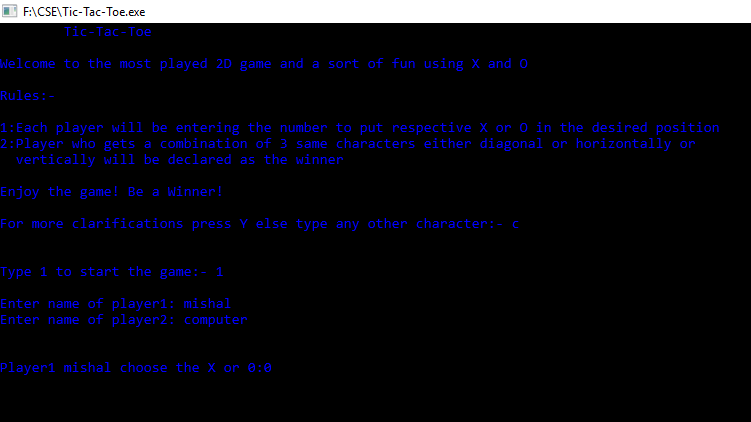
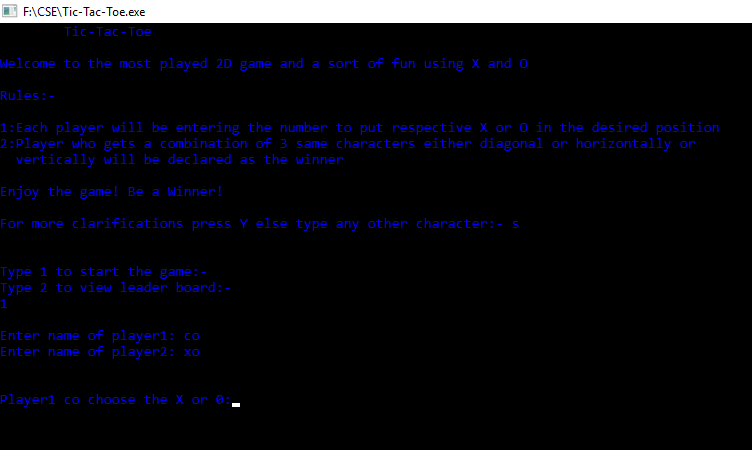
added new feature of computer vs human  (#12)
[feat]: computer vs human mode based on randomness

Contributed by @user23052036

diff --git a/Code.c b/Code.c
@@ -3,6 +3,8 @@ This code has been compiled in Code::Blocks 16.01 IDE on Windows 10
 Author:- Mishal Shah
 */
 #include<stdio.h>
+#include<time.h>
+#include<unistd.h>
 #include<string.h>
 #include <stdlib.h>
 #include <stdbool.h>
@@ -18,6 +20,8 @@ void board(char x, char o, unsigned char *u1, unsigned char *u2, char *a); // 2D
 void rules(); // Prints rule page on CLI
 int checkforwin(char *a); // Checks wether a player won
 bool decision(char *x, char *o, unsigned char *u1); // points player to mark X or mark 0
+int rand_generator(int*,int);
+bool if_unique(int*,int,int);
 int main()
 {
     FILE *p;
@@ -34,26 +38,38 @@ int main()
     if (OS=="nt")
         system("color 09");
     rules();
-    printf("\n\nType 1 to start the game:-\nType 2 to view leader board:-\n");
+    printf("\n\nType 1 to start the game against human:-");
+    printf("\nType 2 to start the game against computer:-\n");
+    printf("\nType 3 to view leader board:-\n\n\n");
+
+    printf("Enter your choice:---> ");
     scanf("%d",&s);
-    switch(s) {
+    switch(s) 
+    {
         case 1:
-            do {
+        {
+            do 
+            {
                 p=fopen("score.txt", "a+");
                 printf("\nEnter name of player1: ");
                 scanf("%s",u1);
+
                 fprintf(p,"\n%s",u1);
                 printf("Enter name of player2: ");
                 scanf("%s",u2);
+                getchar();
+                
                 fprintf(p,"\t%s",u2);
                 fclose(p);
                 !strcmp(u1,u2) ? printf("Enter names of different players!\n\n") : FALSE;
             } while(!strcmp(u1,u2));
+
             decision(&x, &o, u1);
             if (OS=="nt")
                 system("color fc");
             board(x,o, u1, u2, a);
-            do {
+            do 
+            {
                 player=((player%2)?1:2);
                 if(player==1)
                     printf("%s Type any digit from 1-9 to fill your response:- ",u1);
@@ -79,33 +95,147 @@ int main()
                     a[7]=symbol;
                 else if(choice==9 && a[8]=='9')
                     a[8]=symbol;
-                else {
-                        printf("Wrong Selection\n");
-                        player--;
+                else 
+                {
+                    printf("Wrong Selection\n");
+                    player--;
                 }
                 score=checkforwin(a);
                 player++;
                 board(x, o, u1, u2, a);
             } while(score == -1);
+
             p=fopen("score.txt","a+");
-            if(score==1) {
-                if(player==2){
+            if(score==1) 
+            {
+                if(player==2)
+                {
                     printf("\n\nPlayer1 %s Wins!\n\n",u1);
                     fprintf(p,"\t%s",u1);
                     getchar();
                 }
-                else {
+                else 
+                {
                     printf("\n\nPlayer2 %s Wins!\n\n",u2);fprintf(p,"\t%s",u2);
                     getchar();
                 }
                 fclose(p);
             }
-            else {
+            else 
+            {
                 printf("\n\nGame Draws!\n\n");fprintf(p,"\t%s","DRAW");
                 getchar();
             }
             break;
+        }
+
         case 2:
+        {
+            int length=5,index=0;
+            int *arr = (int*)malloc(length*sizeof(int));
+            do 
+            {
+                p=fopen("score.txt", "a+");
+                printf("\nEnter name of player1: ");
+                scanf("%s",u1);
+                getchar();
+
+                fprintf(p,"\n%s",u1);
+                printf("My name is (AI-BOT) lets play o_O");
+                strcpy(u2,"AI-BOT");
+
+                fprintf(p,"\t%s",u2);
+                fclose(p);
+                !strcmp(u1,u2) ? printf("Enter names of different players!\n\n") : FALSE;
+            } while(!strcmp(u1,u2));
+
+            decision(&x, &o, u1);
+            if (OS=="nt")
+                system("color fc");
+            board(x,o, u1, u2, a);
+            do 
+            {
+                player=((player%2)?1:2);
+                if(player==1)
+                {
+                    printf("%s Type any digit from 1-9 to fill your response:- ",u1);
+                    scanf("%d",&choice);
+
+                    if(index>=5)
+                    {
+                        length++;
+                        arr = realloc(arr,length);
+                        arr[index]=choice;
+                        index++;
+                    }
+                    else
+                    {
+                        arr[index]=choice;
+                        index++;
+                    }
+                }
+                else
+                {
+                    printf("%s Type any digit from 1-9 to fill your response:- ",u2);
+                    choice = rand_generator(arr,index);
+                }
+
+                symbol=((player==1)?x:o);
+                if(choice==1 && a[0]=='1')
+                    a[0]=symbol;
+                else if(choice==2 && a[1]=='2')
+                    a[1]=symbol;
+                else if(choice==3 && a[2]=='3')
+                    a[2]=symbol;
+                else if(choice==4 && a[3]=='4')
+                    a[3]=symbol;
+                else if(choice==5 && a[4]=='5')
+                    a[4]=symbol;
+                else if(choice==6 && a[5]=='6')
+                    a[5]=symbol;
+                else if(choice==7 && a[6]=='7')
+                    a[6]=symbol;
+                else if(choice==8 && a[7]=='8')
+                    a[7]=symbol;
+                else if(choice==9 && a[8]=='9')
+                    a[8]=symbol;
+                else 
+                {
+                    printf("Wrong Selection\n");
+                    player--;
+                }
+                score=checkforwin(a);
+                player++;
+                board(x, o, u1, u2, a);
+            } while(score == -1);
+
+            p=fopen("score.txt","a+");
+            if(score==1) 
+            {
+                if(player==2)
+                {
+                    printf("\n\nPlayer1 %s Wins!\n\n",u1);
+                    fprintf(p,"\t%s",u1);
+                    getchar();
+                }
+                else 
+                {
+                    printf("\n\nPlayer2 %s Wins!\n\n",u2);fprintf(p,"\t%s",u2);
+                    getchar();
+                }
+                fclose(p);
+            }
+            else 
+            {
+                printf("\n\nGame Draws!\n\n");fprintf(p,"\t%s","DRAW");
+                getchar();
+            }
+            free(arr);
+            break;
+        }
+
+        case 3:
+        {
             if (OS=="nt") 
                 system("cls");
             if (OS=="posix")
@@ -114,16 +244,18 @@ int main()
             printf("\tLEADERBOARD\n\n");
             char c;
             p=fopen("score.txt","r");
-            while((c=getc(p))!=EOF) {
+            while((c=getc(p))!=EOF)
                 printf("%c",c);
-            }
             fclose(p);
             getchar();
             break;
+        }
         default:
+        {
             printf("\n\nShould have typed 1 to play the game!\nHope to see you back soon!\n\n");
             getchar();
             break;
+        }
     }
 }
 int checkforwin(char *a)
@@ -195,18 +327,44 @@ bool decision(char *x, char *o, unsigned char *u1)
 {
     char dec;
     printf("\n\n");
-    do {
+    do 
+    {
         printf("Player1 %s choose the X or 0:",u1);
         dec=getchar();
-        scanf("%c", &dec);
+        getchar();
+
     } while(dec!='X' && dec!='x' && dec!='0');
-    if (dec=='X' || dec=='x') {
+
+    if (dec=='X' || dec=='x') 
+    {
         *x='X';
         *o='0';
     }
-    else {
+    else 
+    {
         *x='0';
         *o='X';
     }
     return 1;
+}
+
+int rand_generator(int*arr, int length)
+{
+    int rand_num;
+    long int seed = time(NULL)*getpid();
+
+    srand(seed);
+    do
+    {
+        rand_num = rand()%9+1;
+    }while(!if_unique(arr,length,rand_num));
+    return rand_num;
+}
+
+bool if_unique(int *arr, int length, int num)
+{
+    for(int i=0; i<length; i++)
+        if(arr[i] == num)
+            return false;
+    return true;
 }
